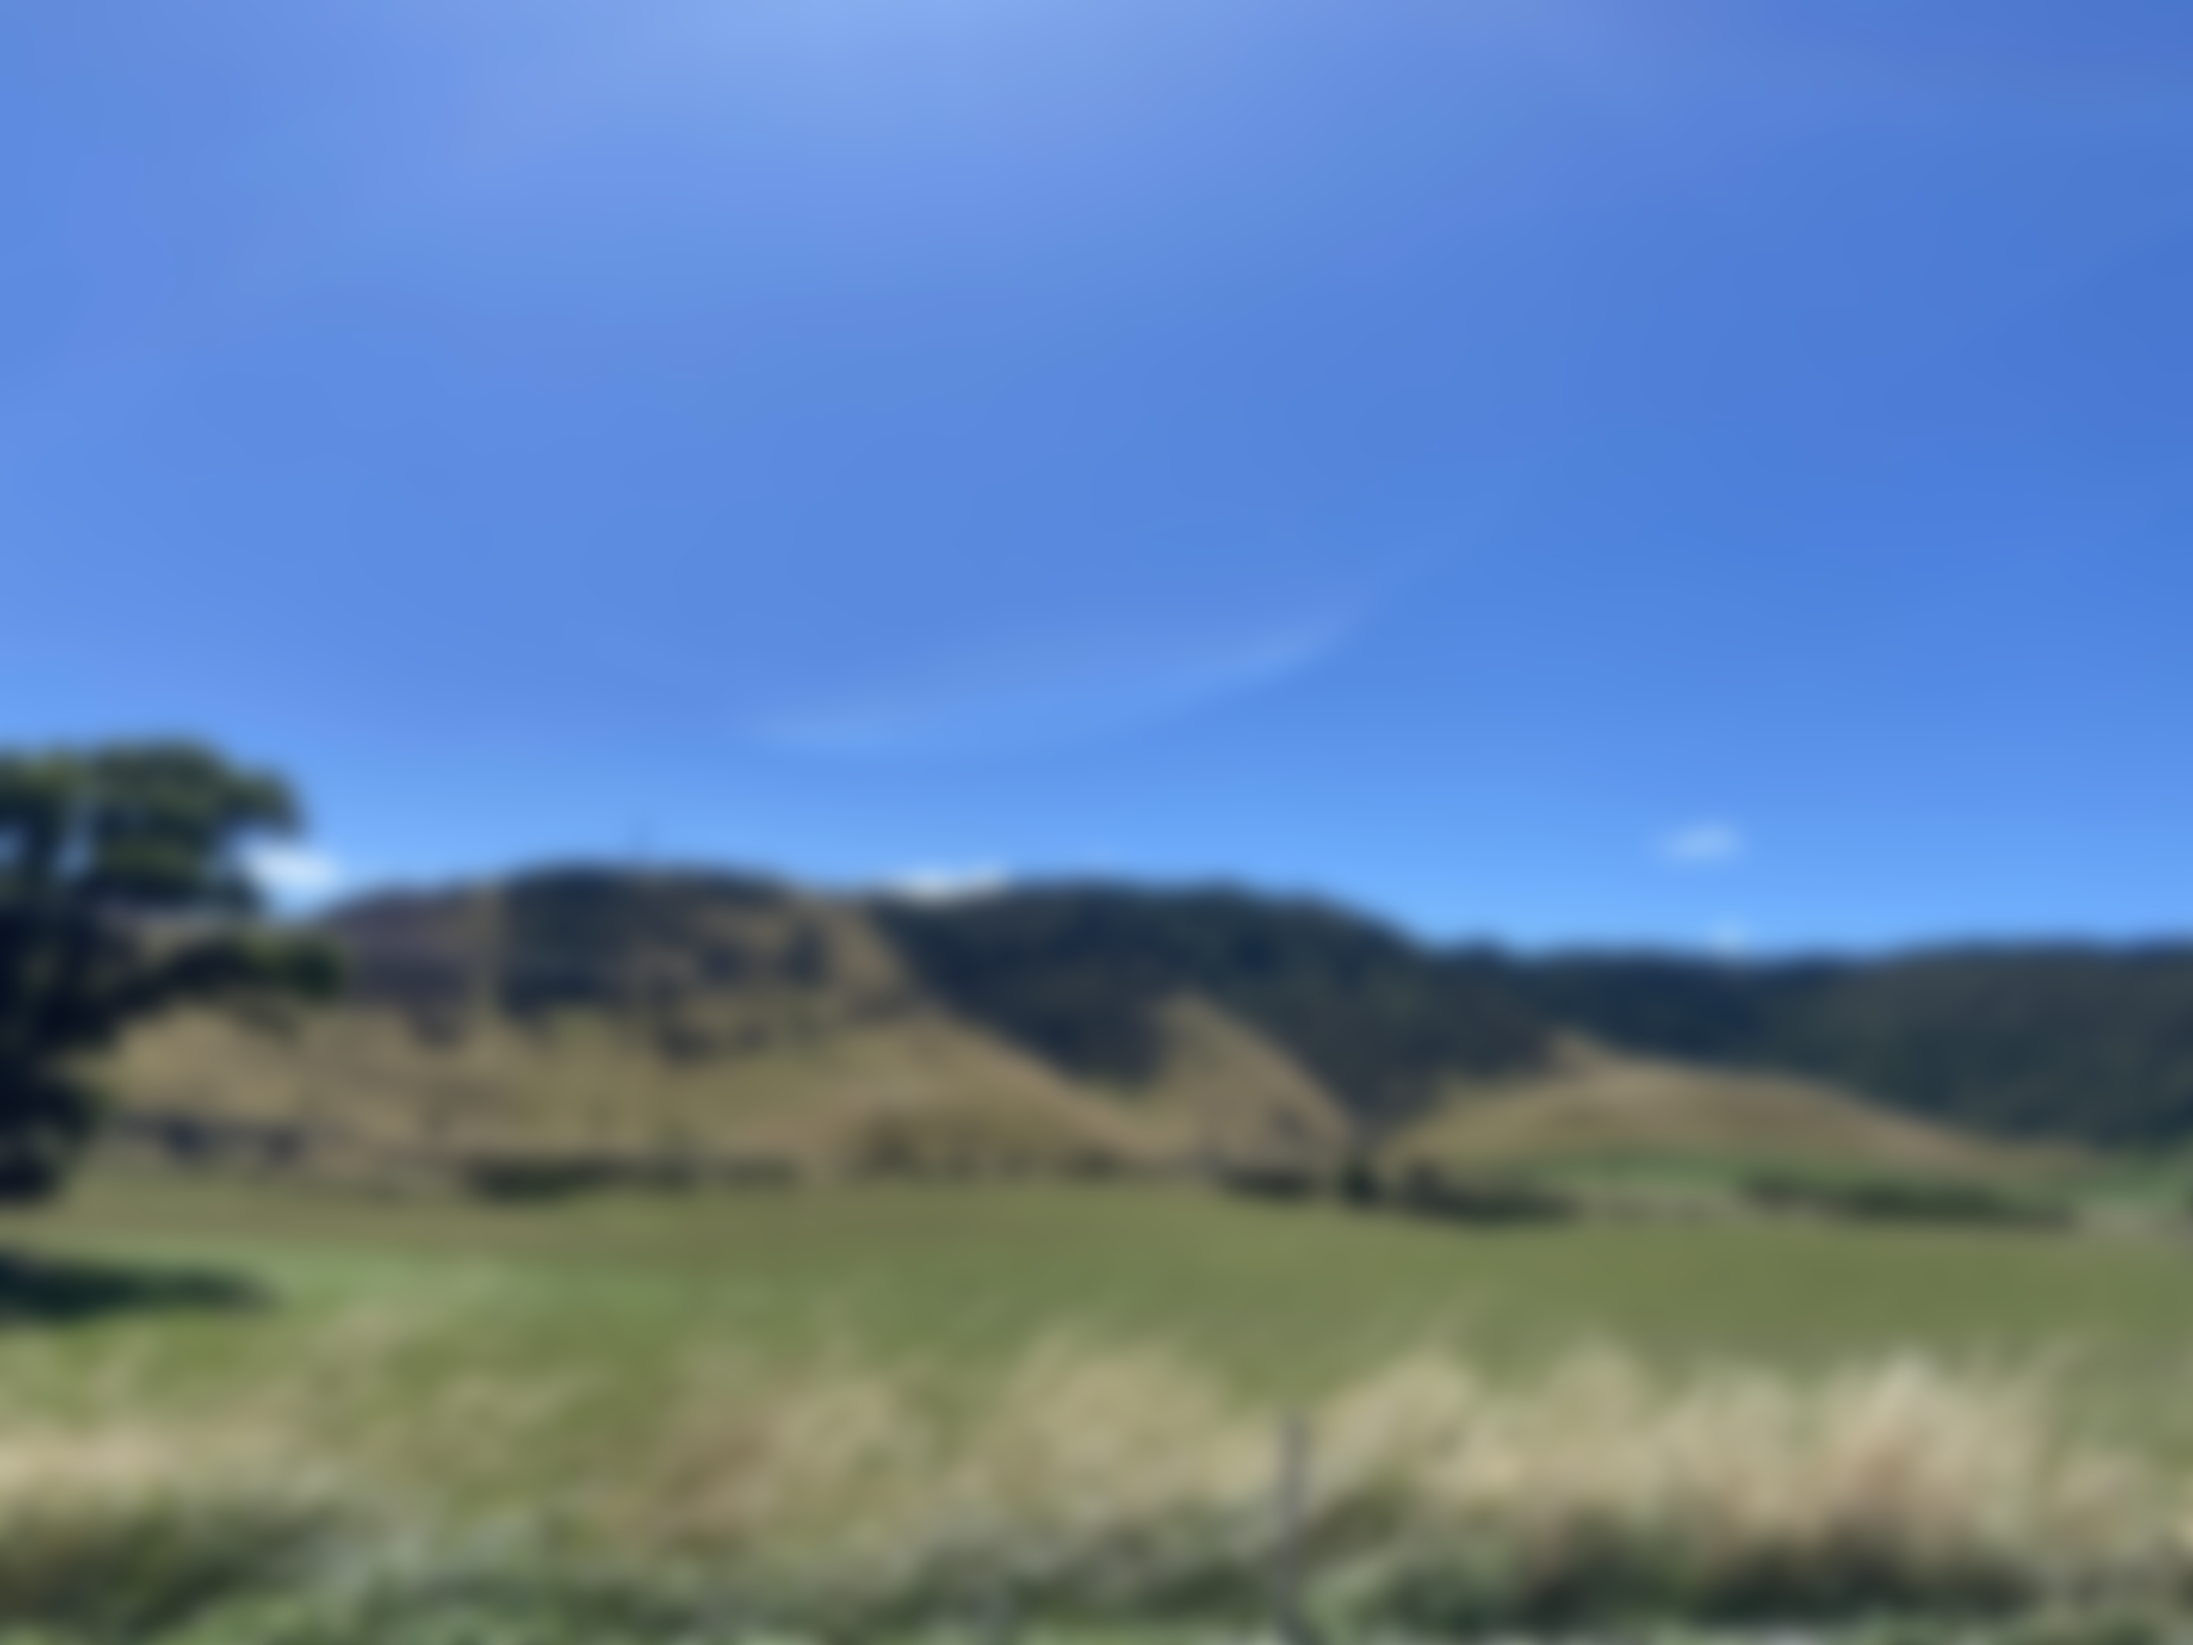
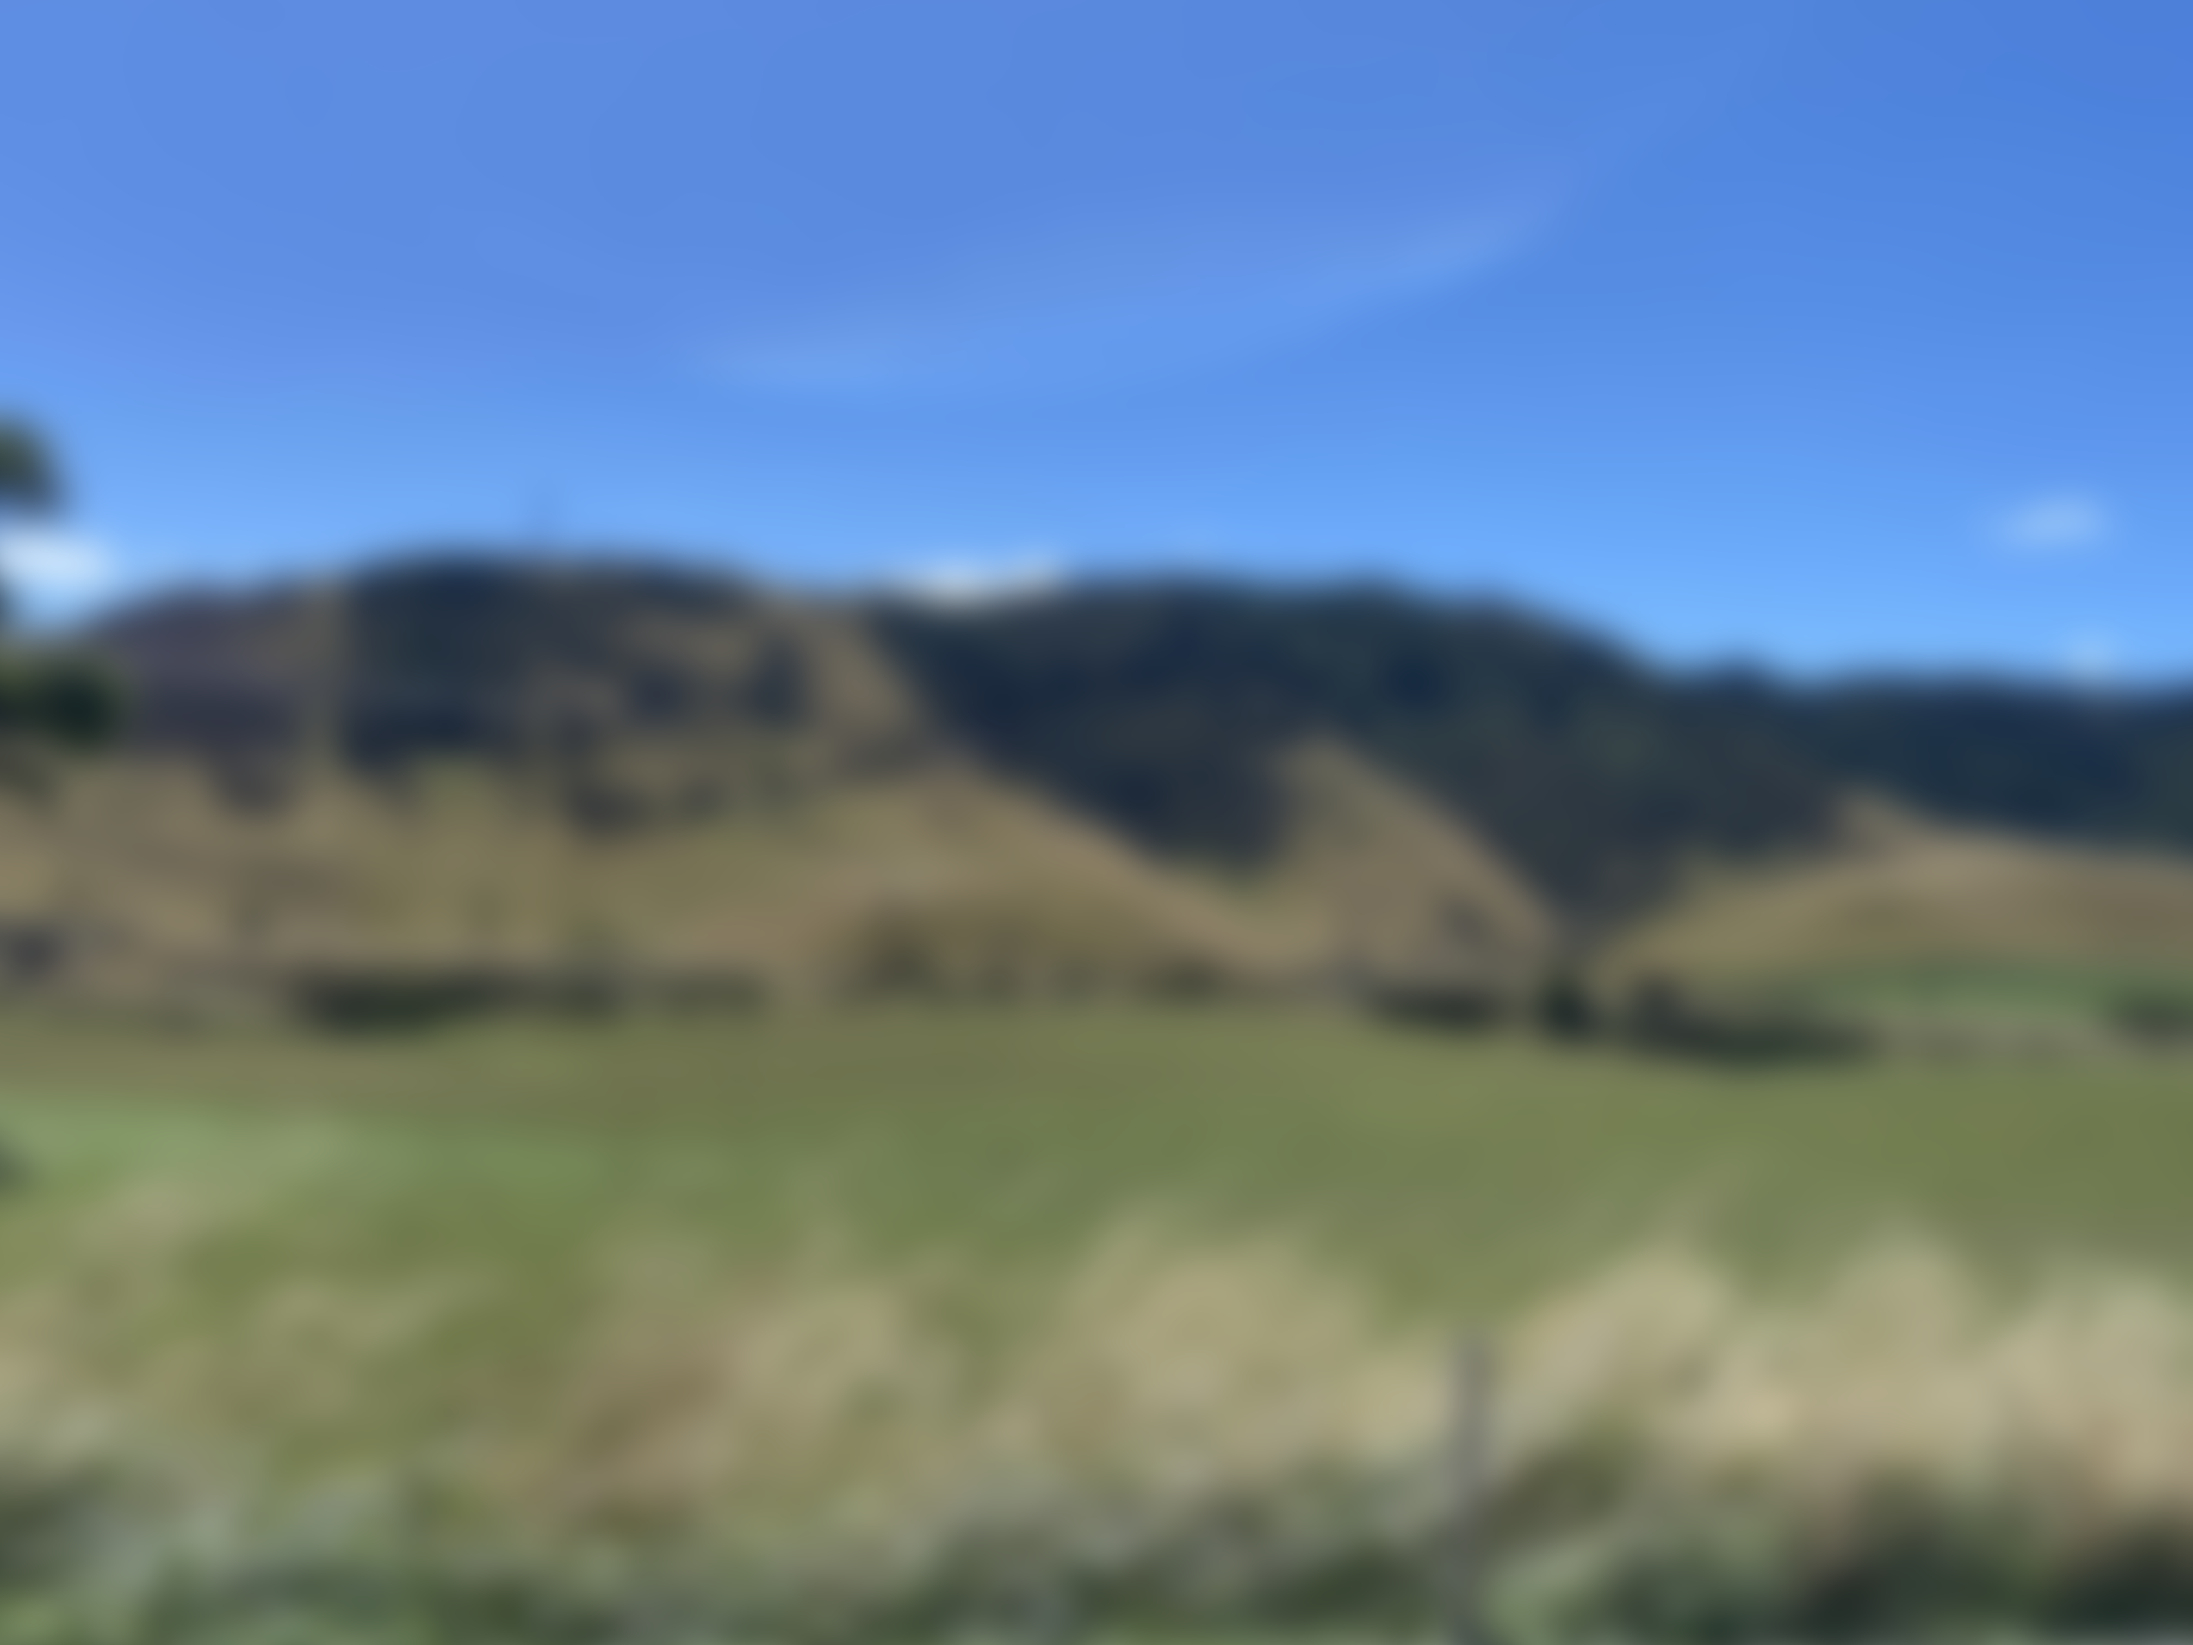
push

diff --git a/sketch.js b/sketch.js
@@ -2,9 +2,9 @@ let sourceImg=null;
 let maskImg=null;
 
 // change these three lines as appropiate
-let sourceFile = "input_1.jpg";
-let maskFile   = "mask_1.png";
-let outputFile = "output_1.png";
+let sourceFile = "input_2.jpg";
+let maskFile   = "mask_2.png";
+let outputFile = "output_2.png";
 
 function preload() {
   sourceImg = loadImage(sourceFile);
@@ -21,51 +21,54 @@ function setup () {
   sourceImg.loadPixels();
   maskImg.loadPixels();
   colorMode(HSB);
+
+
 }
 
-let X_STOP = 650;
-let Y_STOP = 240;
+//let X_STOP = 650;
+//let Y_STOP = 480;
+let X_STOP = 1920;
+let Y_STOP = 1080;
+let OFFSET = 10; 
 
-let OFFSET = 100;
-
-let renderCounter=5;
+let renderCounter=0;
 function draw () {
-  angleMode[DEGREES];
+  angleMode[DEGREES]
   let num_lines_to_draw = 40;
   // get one scanline
-  for(let j=renderCounter; j<renderCounter+num_lines_to_draw && j<1080; j++) {
-    for(let i=5; i<X_STOP; i++) {
+  for(let j=renderCounter; j<renderCounter+num_lines_to_draw && j<Y_STOP; j++) {
+    for(let i=0; i<X_STOP; i++) {
       colorMode(RGB);
       let mask = maskImg.get(i, j);
-
-      // let changeAmount = sin(i*2) * 255
-      //let pix = [changeAmount,0,255,255]
+     
+     // let changeAmount = sin(i*2) * 255  //( i ^ j ) & 255 
+     // let pix =[changeAmount, 0, 255, 255]
+     //  if (mask[1] > 128) {
+         pix = sourceImg.get(i, j);
+   //   }
+    //  else {  
+      let wave = sin(j+8);
+      let slip = map(wave, -1, 1,-OFFSET, OFFSET);
       
+      pix = sourceImg.get(i+slip, j);
       
-      if (mask[1] > 128) {
-       pix = sourceImg.get(i, j);
-     }
-     else {
-
-   // let wave = sin(j*8);
-   // let slip = map(wave, -1,1, -OFFSET, OFFSET);
-   // pix = sourceImg.get(i+slip, j);
-
-    let sum_rgb = [0, 0, 0]
-    let num_cells = 0;
-      for(let wx=-OFFSET;wx<OFFSET;wx++){
-      for (let wy=-OFFSET;wy<OFFSET;wy++) {
-      let pix = sourceImg.get(i+wx, j+wy);
-       for(let c=0; c<3; c++) {
-       sum_rgb[c] += pix[c];
-      }
-       num_cells += 1;
-        }
-       }
-        for(let c=0; c<3; c++) {
-          pix[c] = int(sum_rgb[c] / num_cells);
-        }        
-      }
+      //  let sum_rgb = [0, 0, 0]
+     // let num_cells = 0;
+       // for(let wx=-OFFSET;wx<OFFSET;wx++){
+      //  for (let wy=-OFFSET;wy<OFFSET;wy++) {
+      
+       // let pix = sourceImg.get(i+wx, j+wy);
+       
+     // for(let c=0; c<3; c++) {
+      // sum_rgb[c] += pix[c];
+     // }
+     //  num_cells += 1;
+     //   } 
+     //  }
+      //  for(let c=0; c<3; c++) {
+       //   pix[c] = int(sum_rgb[c] / num_cells);
+      //  }        
+      //}
 
       set(i, j, pix);
     }

diff --git a/index.html b/index.html
@@ -23,9 +23,9 @@
     <table>
         <tr>
         <th>Training - this one is masks made by you
-        <td><a href="output_1.png"><img height="256" width="480" src="output_1.png"></a></td>
-        <td><a href="output_2.png"><img height="256" width="480" src="output_2.png"></a></td>
-        <td><a href="output_3.png"><img height="256" width="480" src="output_3.png"></a></td>
+        <td><a href="output_1.png"><img height="480" width="256" src="output_1.png"></a></td>
+        <td><a href="output_2.png"><img height="480" width="256" src="output_2.png"></a></td>
+        <td><a href="output_3.png"><img height="480" width="256" src="output_3.png"></a></td>
         </tr>
 
         <tr>
